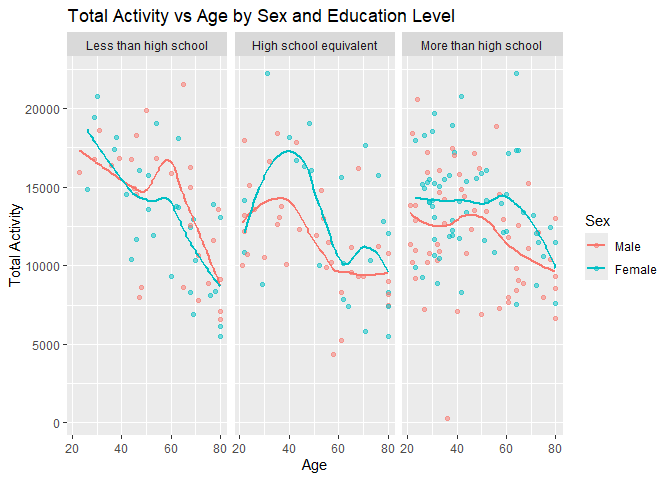
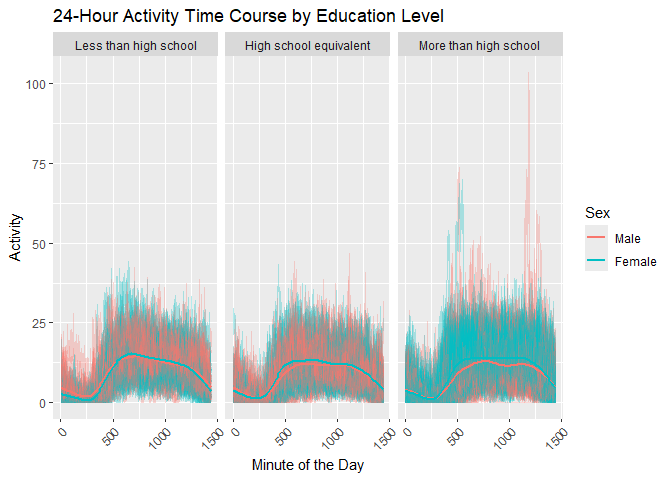
edit problem 2 24-hout activity time course plot

diff --git a/p8105_hw3_jw4690.md b/p8105_hw3_jw4690.md
@@ -218,6 +218,8 @@ standing out. The “More than high school” group shows a larger count of
 people in the 30-50 age range, especially among males.
 
 ``` r
+# plot  total activity over the day
+
 merged_df$total_activity <- rowSums(merged_df[, 2:1441])
 
 total_activity_plot = merged_df |>
@@ -237,16 +239,18 @@ total_activity_plot
 
 ![](p8105_hw3_jw4690_files/figure-gfm/unnamed-chunk-11-1.png)<!-- -->
 
-This plot shows how total physical activity varies by age for both men
-and women, with separate panels for each education level. The trend
-lines help illustrate potential differences between genders across
-different age groups and education levels. The smooth lines highlight
-these trends, making it easier to compare overall patterns. We can
-observe that the activity levels decrease with age, and there could be
-noticeable differences in activity between men and women, as well as
-between educational groups.
+In the “Less than high school” group, activity drops significantly after
+age 60 for both sexes. The “High school equivalent” group shows more
+fluctuation, with activity peaking around ages 40–50 and declining
+afterward, while females maintain slightly higher activity in older
+ages. In the “More than high school” group, both sexes show more stable
+activity levels, with females maintaining steady activity longer than
+males. Higher education seems to be linked with a more gradual decline
+in activity, especially for women.
 
 ``` r
+# Make a three-panel plot that shows the 24-hour activity time courses for each education level 
+
 minute_cols = merged_df |>
   select(starts_with("min"))
 
@@ -262,8 +266,9 @@ Accelerometer_plot = Accelerometer_df |>
   facet_wrap(. ~ education) +
   labs(title = "24-Hour Activity Time Course by Education Level",
        x = "Minute of the Day",
-       y = "Activity (MIMS)",
-       color = "Sex")
+       y = "Activity",
+       color = "Sex") +
+  theme(axis.text.x = element_text(angle = 45, hjust = 1))
 
 Accelerometer_plot
 ```
@@ -272,12 +277,15 @@ Accelerometer_plot
 
 ![](p8105_hw3_jw4690_files/figure-gfm/unnamed-chunk-12-1.png)<!-- -->
 
-The plot shows how activity levels fluctuate over the course of the day,
-broken down by education level, and will use different colors to
-represent the sex of the participants. Across all education levels,
-activity tends to increase during daylight hours, with notable peaks
-during the morning and afternoon, followed by a decline during the
-night.
+This chart shows daily activity patterns over a 24-hour period for males
+and females across three education levels. In all categories, activity
+rises sharply in the morning, peaks, and then gradually declines
+throughout the day, with smaller activity spikes toward the evening. The
+activity trends for both males and females are similar, though females
+tend to have slightly more consistent activity levels across the day.
+There are no significant differences between education levels, though
+the “More than high school” group shows slightly higher peaks of
+activity during the day.
 
 ## Problem 3
 
